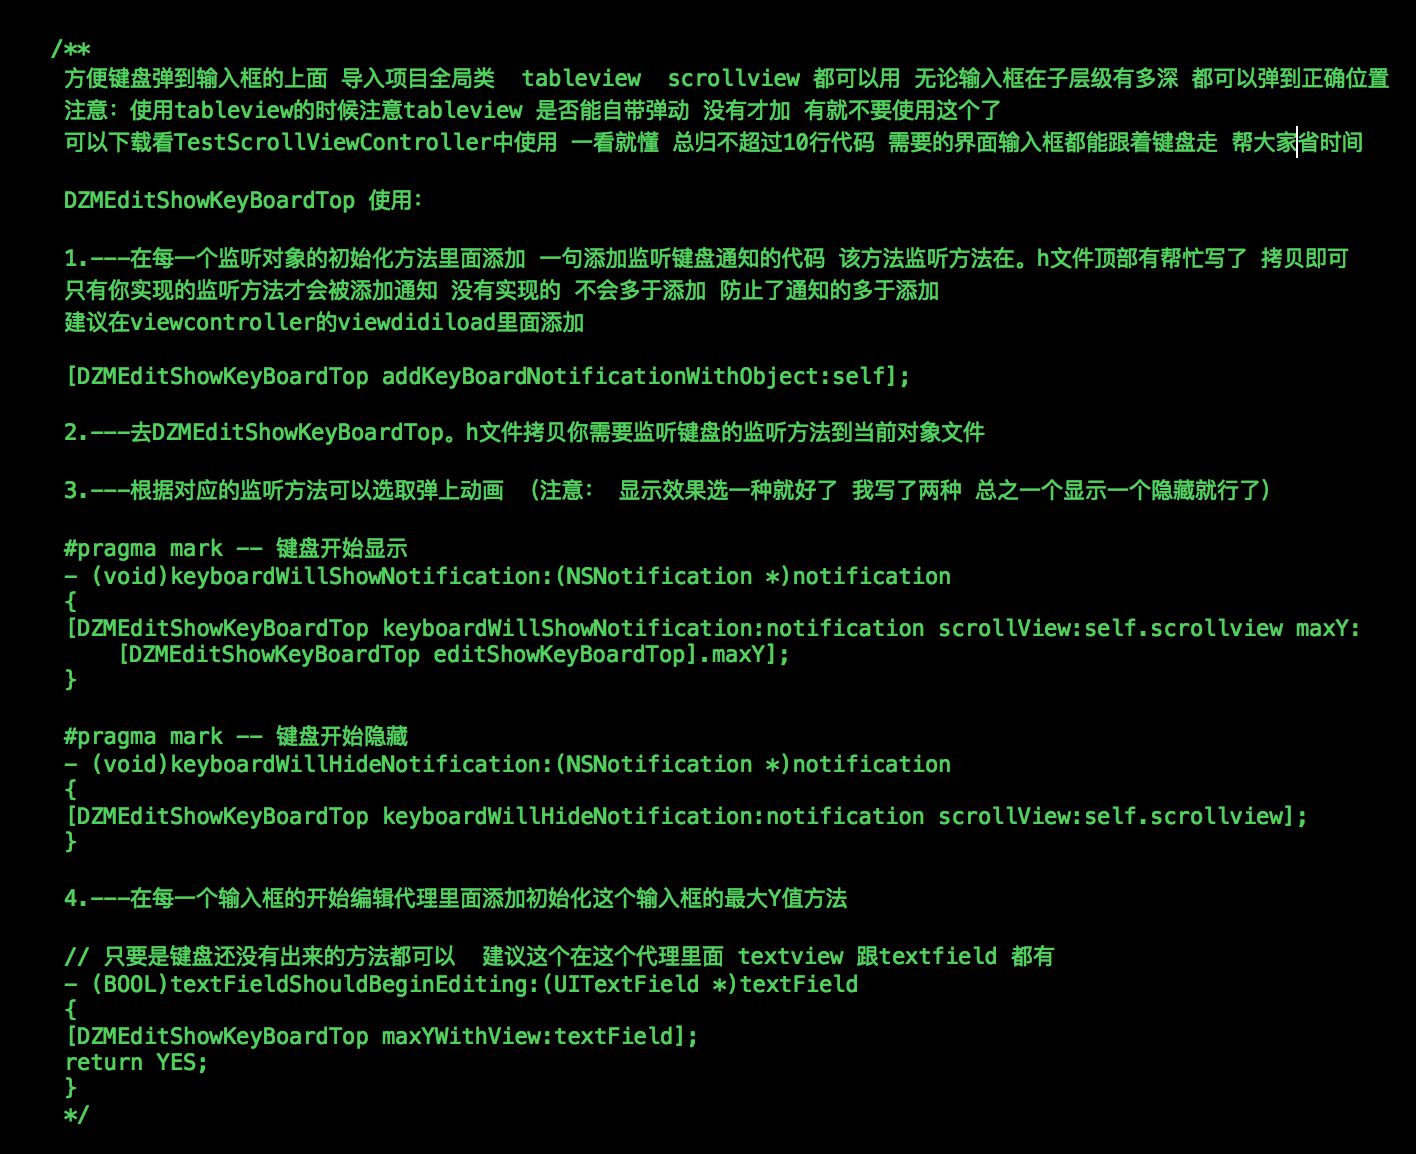
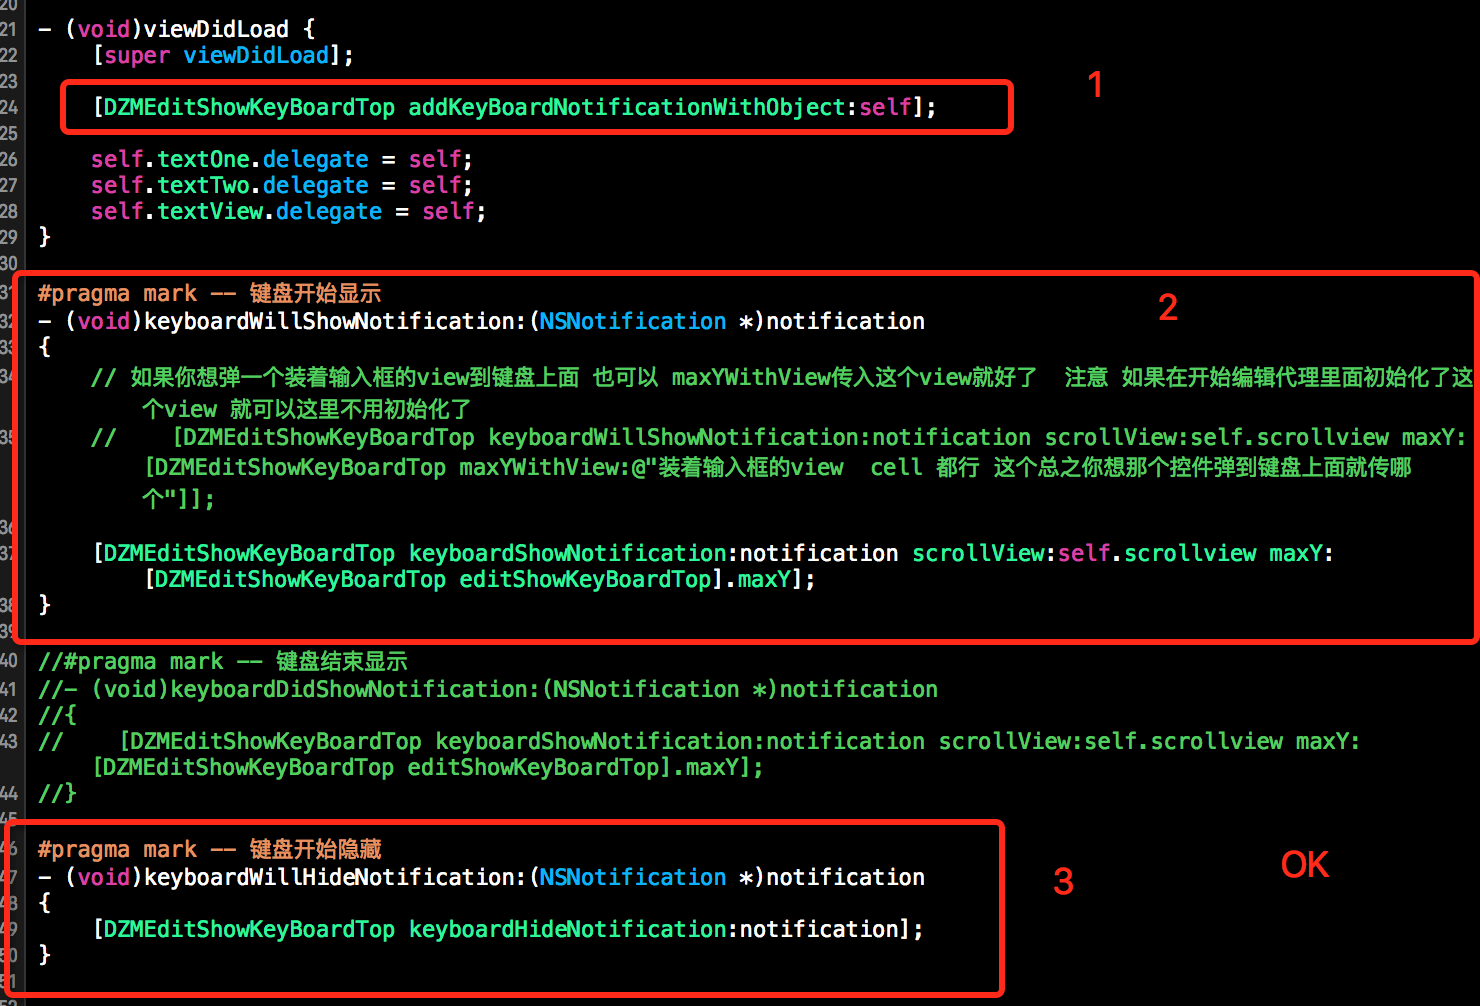
最新

Changed region(s): [[0.0, 0.0, 1.0, 1.0], [0.8701, 0.832, 0.9011, 0.8936]]

diff --git a/README.md b/README.md
@@ -3,6 +3,9 @@
 
 ![CarouselView in action](DemoOne.gif)
 
+# Swift版本 Swift-DZMEditShowKeyBoardTop
+https://github.com/dengzemiao/Swift-DZMEditShowKeyBoardTop
+
 ##实现代码
 
 // 添加通知
@@ -13,19 +16,19 @@
 }
 
 // 显示的任选一种就行了
-#pragma mark -- 键盘开始显示
+// 键盘开始显示
 - (void)keyboardWillShowNotification:(NSNotification *)notification
 {
 [DZMEditShowKeyBoardTop keyboardShowNotification:notification scrollView:self.scrollview maxY:[DZMEditShowKeyBoardTop editShowKeyBoardTop].maxY];
 }
 
-#pragma mark -- 键盘结束显示
+// 键盘结束显示
 //- (void)keyboardDidShowNotification:(NSNotification *)notification
 //{
 //    [DZMEditShowKeyBoardTop keyboardShowNotification:notification scrollView:self.scrollview maxY:[DZMEditShowKeyBoardTop editShowKeyBoardTop].maxY];
 //}
 
-#pragma mark -- 键盘开始隐藏
+// 键盘开始隐藏
 - (void)keyboardWillHideNotification:(NSNotification *)notification
 {
 [DZMEditShowKeyBoardTop keyboardHideNotification:notification];
